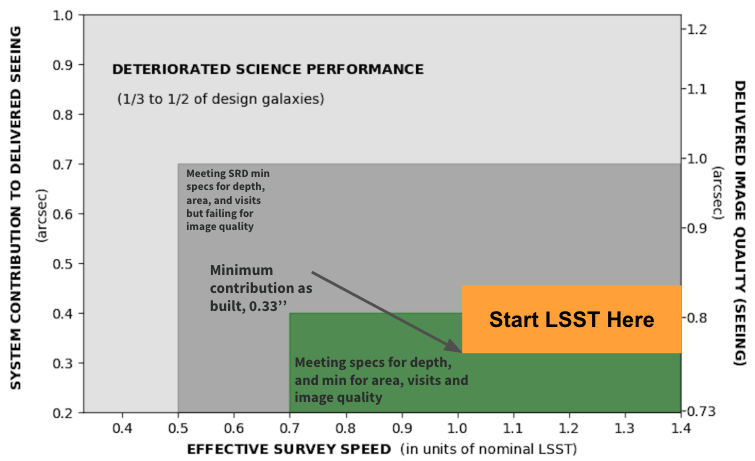
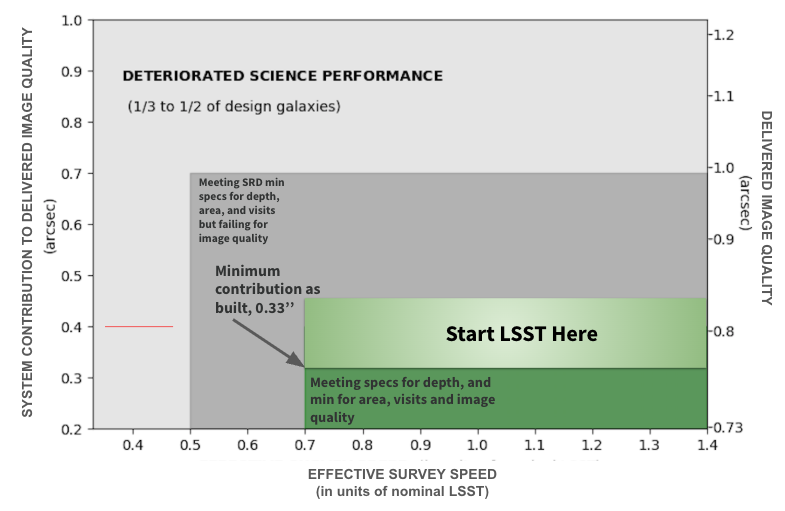
post CCR3-ORR2

Changed region(s): [[0.0, 0.0, 1.0, 1.0], [0.1523, 0.1215, 0.5788, 0.243], [0.8834, 0.1518, 0.9444, 0.2126]]

diff --git a/criteria.tex b/criteria.tex
@@ -28,7 +28,7 @@ Item & Criterion & Description& Status \\
 
 6 & sDIQ Uniformity& The ``System'' contribution to the measured Delivered Image Quality can vary over the field of view such that 10$\%$ or less of the FOV has a system contribution of up to 0.52$\arcsec$ (see LSST system specifications LSR-REQ-0008.  & \makecell[l]{\\Currently\\ not meeting \\for typical\\images\\}\\\hline
 
-7 & Ellipticity & Ellipticity for a single image will typically be as specified in the LSST system requirements as  LSR-REQ-0092. This is $\leq$ 0.04 with 5$\%$ or fewer outliers beyond 0.07.& \makecell[l]{\\In SV, \\typically not \\meeting\\}\\\hline
+7 & Ellipticity & Ellipticity for a single image will typically be as specified in the LSST system requirements as LSR-REQ-0092. This is $\leq$ 0.04 with 5$\%$ or fewer outliers beyond 0.07. See below; we will gate the survey start with respect to the residuals between the measured ellipticity and the calculated value from the WFS.& \makecell[l]{\\In SV, \\typically not \\meeting\\}\\\hline
 
 8 & Normalized \'{E}tendue (\it{eF}) & Survey Speed  is $>$ 0.7. & Currently 0.68 \\
 
@@ -78,6 +78,14 @@ Improving the system contribution to the DIQ requires continued effort on the co
 
 Equally important for the scientific value of the images is that the typical LSST images meet the requirements for uniformity across the field of view and ellipticity for bright isolated stars. These are given in Table~\ref{tab:criteria}. For uniformity to start the survey, we identify the value of the allowed contribution in the worst quartile of the overall seeing profile given in the SRD. This is 0.52$\arcsec$. 
 
+We intend to meet the ellipticity requirement, however it is likely we will start the LSST when the residuals for ellipticity from the system component are well understood, even if the formal requirement is not yet met. This is because a calculation of the ellipticity (from the WFS) can result in residuals from the measured ellipticity which would allow us to detect the astrophysical weak lensing signal. This is described in the \citep[Section 3.3.3.3]{LPM-17}, "This specification does not by itself address weak lensing systematics, 
+because there are schemes for removing the influence of an anisotropic PSF on the observed shapes of galaxies. 
+However, it is known that these schemes leave smaller residuals if initially given isotropic PSFs to begin with, 
+hence the specification that the telescope$+$camera not greatly degrade the natural limit." Here, "the natural limit" 
+refers to "the ellipticity induced by atmospheric turbulence in a 10-second exposure in 0.69 arcsec will be in the 
+range 0.01-0.02" (also Section 3.3.3.3 of the SRD). Finally, as noted in the SRD, Section 3.4.0.4, it is the correlation 
+of ellipticity fit residuals that matters, and not their size. 
+
 \subsection{Dome Environmental Control}
 The dome will be the last major subsystem to be completed. Indeed it will not be done until mid 2026. The critical aspects that are needed are: to install, provide control for, and optimize the actuators for the dome louvers and the installation of the HVAC ductwork used for daytime thermal conditioning of the dome interior. There are 40 louvers, and some large fraction need to be operable (open at fractions consistent with telemetry in real time for temperatures and wind). The first actuators are installed now and one louver has been opened at night. Still more will need to be brought on line after the handover to meeting the system image quality criterion (we currently expect 12 will be operable after handover). If the louvers limit us to worse than typical system DIQ performance, we won't be able to start the LSST until they are largely deployed and in routine operation. 
 
@@ -94,12 +102,14 @@ The TMA is capable of accelerating more than we currently operate it. Higher acc
 
 This leaves the System Availability, Current performance of 0.75 needs to be improved. Doing only science like observations we have reached 85$\%$ at times. We need to continue to improve on procedures and reliability of systems throughout the summit facility as we go forward. This means training for faster troubleshooting and fault recovery, making communications on the telescope system bus more reliable, improving reliability of telescope, dome, and camera functions. These have all seen marked progress as expected throughout system integration, test, and commissioning. We will assume current performance of 75$\%$ conservatively. 
 
-Using the combined SRD minimum specifications the lowest Normalized \'{E}tendue allowed is 0.7. This level is nearly in hand; see Table~\ref{tab:factors} and the ''Sustained Performance values''. We will start the LSST consistent with System Availability of 75$\%$ which leads to fE $=$ 1.01 using the Needed to Start LSST column f factors in Table~\ref{tab:factors}. However, the actual value will be better given that we expect the System Availability to improve significantly. 
+Using the combined SRD minimum specifications the lowest Normalized \'{E}tendue allowed is 0.7. This level is nearly in hand; see Table~\ref{tab:factors} and the ''Sustained Performance values''. We will start the LSST consistent with System Availability of 75$\%$ which leads to fE $=$ 1.01 using the Needed to Start LSST column f factors in Table~\ref{tab:factors}. However, the actual value will be better given that we expect the System Availability to improve significantly and DIQ will also push fE to the right as it improves. 
+
+There remains the question of how reliably (often) we keep the performance in the green SRD box. Clearly some images will fall outside the box for any number of reasons, even in steady state operations. For purposes of starting the LSST. we will adopt a criteria that we can begin if we are more often than not in the box on average. 
 
 \begin{figure}[t]
 \centering
 \includegraphics[width=0.85\linewidth]{speed3.png}
-\caption{Image quality versus effective survey speed or Normalized \'{E}tendue. The large orange rectangle represents the region in this space within which we can confidently start the LSST while working to maintain and improve performance.}
+\caption{Image quality versus effective survey speed or Normalized \'{E}tendue. The large green rectangle represents the region in this space within which we can confidently start the LSST while working to maintain and improve performance. We expect to enter this box near the middle top where the shading is lighter.}
 \label{speed3}
 \end{figure}
 

diff --git a/schedule.tex b/schedule.tex
@@ -23,7 +23,7 @@ Following CCR3/ORR2 and the concurrent "Handover", the Operations team will begi
 \begin{figure}%[]
   \centering
 \includegraphics[width=0.95\linewidth]{sched.png}
-\caption{Rubin Observatory Schedule as of September 01, 2025. Formal completeness reviews including operations readiness are shown in the Figure and described above. Handover to the Operations is set for October 25, 2025 and pre-survey optimization will continue until the performance criteria described in this document are met for starting the LSST. In parallel, some activities and work by the Construction team will continue in FY26. Some of these activities will positively impact on sky performance. }
+\caption{Rubin Observatory Schedule as of September 01, 2025. Formal completeness reviews including operations readiness are shown in the Figure and described above. Handover to the Operations is set for October 25, 2025 and pre-survey optimization will continue until the performance criteria described in this document are met for starting the LSST. In parallel, some activities and work by the Construction team will continue in FY26. Some of these activities will positively impact on sky performance.}
 \label{sched}
 \end{figure}
 

diff --git a/RTN-093.tex b/RTN-093.tex
@@ -44,8 +44,9 @@ This document concisely captures the criteria that must be satisfied to begin re
 % Fields: VERSION, DATE, DESCRIPTION, OWNER NAME.
 % See LPM-51 for version number policy.
 \setDocChangeRecord{%
-  \addtohist{1}{2025-02-28}{01.0}{Robert Blum}
-  \addtohist{1}{2025-09-01}{02.0 Criteria and Schedule updates}{Robert Blum}
+  \addtohist{1.0}{2025-02-28}{first draft}{Robert Blum}
+  \addtohist{1.1}{2025-09-01}{Criteria and Schedule updates}{Robert Blum}
+  \addtohist{2.0}{2025-10-18}{Rubin Management Board Feedback}{Robert Blum}
 }
 \graphicspath{{./}{figures/}}
 

diff --git a/speed.tex b/speed.tex
@@ -36,7 +36,7 @@ The range of performance between what has been achieved over periods of SV and t
 \caption{Current f factor status}\label{tab:factors}
 \begin{tabular}{cccc}
 \hline
-factor & Description& SV Sustained Performance & Needed to Start LSST \\
+factor & Description& Sustained Performance in SV & Needed to Start LSST \\
 \hline \hline
 sDIQ & System Contribution to the PSF FWHM  & 0.6$\arcsec$ & 0.45$\arcsec$ \\
 fA & FoV area factor & 0.99 & 0.99 \\

diff --git a/acronyms.tex b/acronyms.tex
@@ -60,4 +60,5 @@ TBD & To Be Defined (Determined) \\\hline
 TMA & Telescope Mount Assembly \\\hline
 US & United States \\\hline
 USDF & United States Data Facility \\\hline
+WFS & WaveFront Sensor \\\hline
 \end{longtable}
